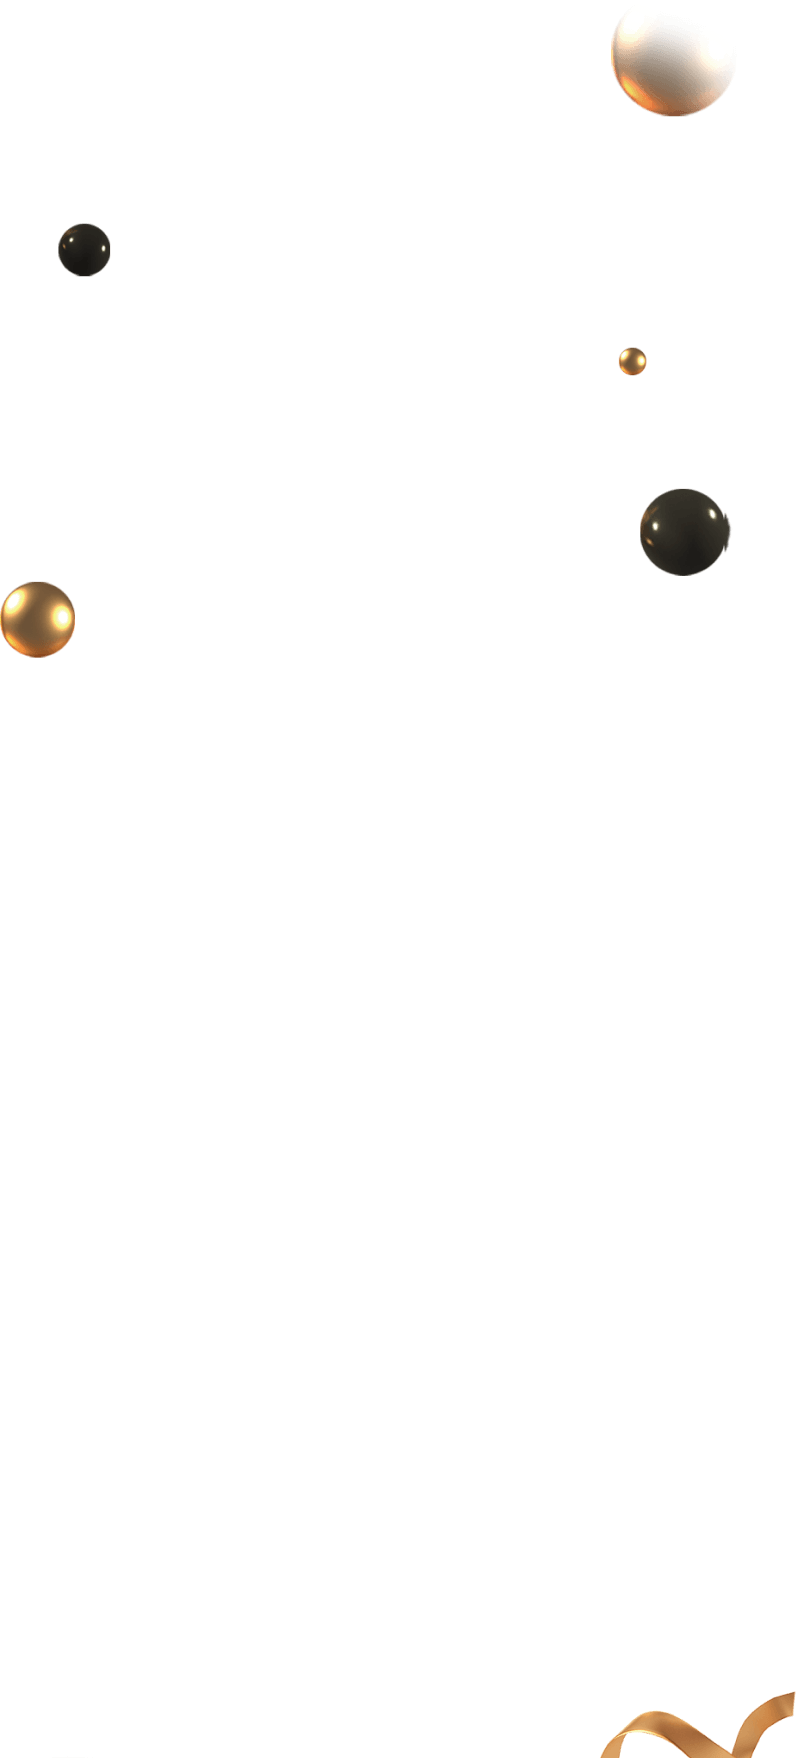
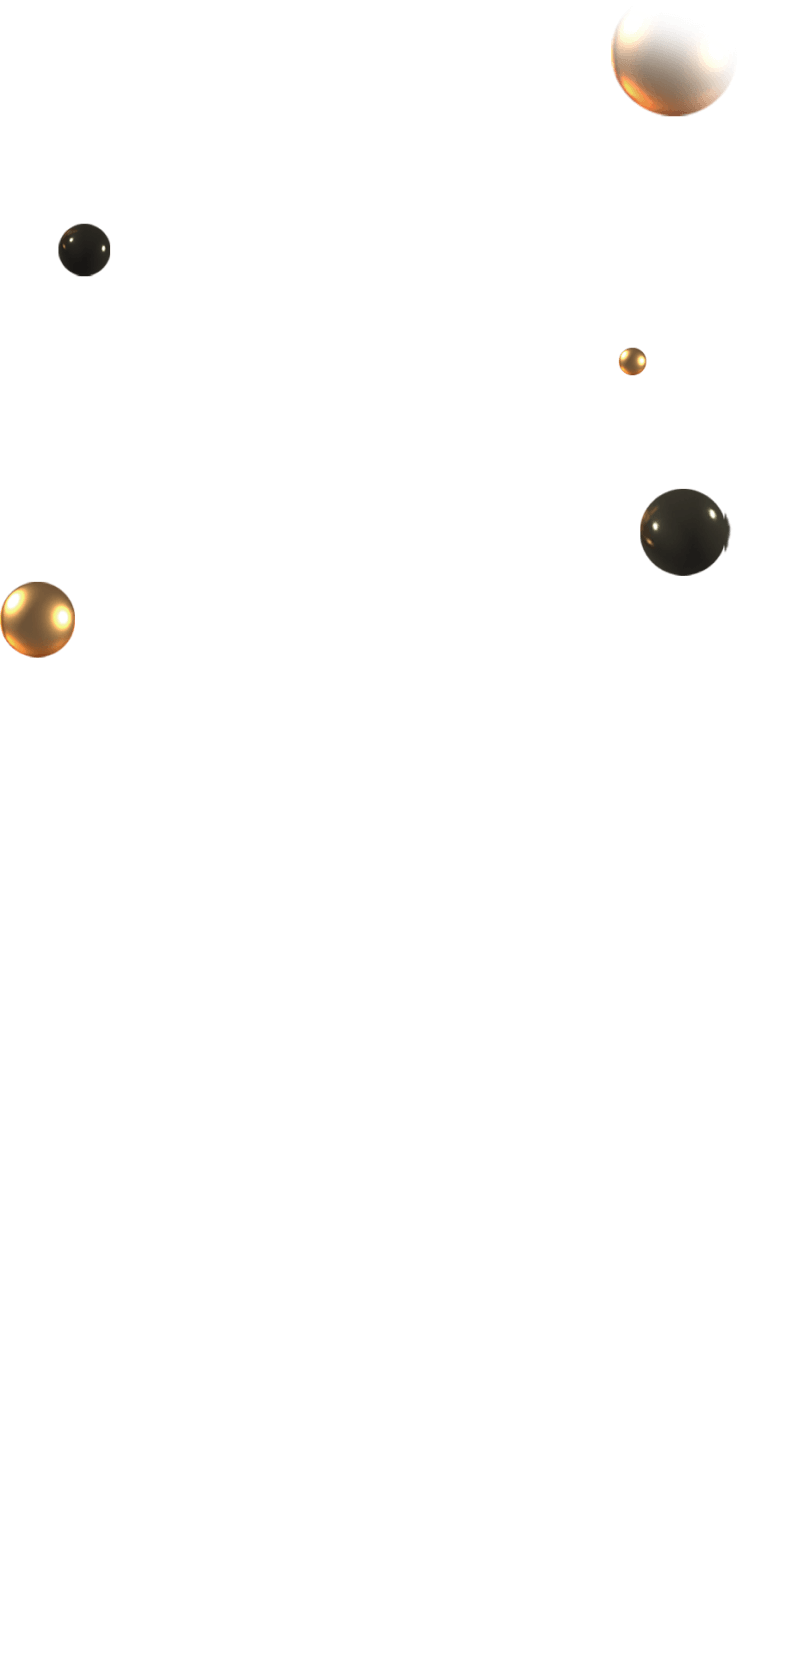
fix: [pak h5] Adjust video ambassador promo ui

diff --git a/pak-static-h5/src/components/hotpromo/video-ambassador/VideoAmbassador.vue b/pak-static-h5/src/components/hotpromo/video-ambassador/VideoAmbassador.vue
@@ -128,6 +128,7 @@
     </div>
   </div>
   <div class="ranking-section">
+    <img class="ranking-top-img" src="./img/ranking-top.png" />
     <div class="ranking-container">
       <div class="ranking-header">
         <div class="rank-index">RANKING</div>
@@ -139,10 +140,16 @@
           <div
             class="rank-index"
             :style="`background: ${
-              n <= 3 ? 'url(' + require(`./img/medal-${n}.png`) + '); color: #9E6213; font-weight: 900;' : 'none'
+              n <= 3
+                ? 'url(' +
+                  require(`./img/rank-${n}.png`) +
+                  ') no-repeat center center; color: #9E6213; font-weight: 900; min-height: 24px'
+                : 'none'
             }`"
           >
-            {{ n }}
+            <template v-if="n > 3">
+              {{ n }}
+            </template>
           </div>
           <div class="rank-name">NAME</div>
           <div class="rank-amt">
@@ -151,10 +158,10 @@
           </div>
         </div>
       </div>
+      <img class="ranking-container-decoration left" src="./img/ranking-left.png" />
+      <img class="ranking-container-decoration right" src="./img/ranking-right.png" />
+      <img class="ranking-container-decoration bottom" src="./img/ranking-bottom.png" />
     </div>
-    <img class="ranking-top-img" src="./img/ranking-top.png" />
-    <img class="ranking-left-img" src="./img/ranking-left.png" />
-    <img class="ranking-right-img" src="./img/ranking-right.png" />
   </div>
 </template>
 <script setup>
@@ -382,52 +389,25 @@ onMounted(() => {
   background-image: url(./img/ranking-bg.png);
   background-repeat: no-repeat;
   background-size: cover;
-  min-width: 100% !important;
-  background-position: center;
-  aspect-ratio: 800 / 1750;
-  position: relative;
+  background-position: top center;
+  padding-top: 15%;
 }
 .ranking-top-img {
-  position: absolute;
-  top: calc(60% - 310px);
-  left: 50%;
-  transform: translateX(-50%);
-  width: 70% !important;
+  top: 10%;
+  margin: auto;
+  max-width: 70%;
 }
-@media (min-width: 375px) {
-  .ranking-top-img {
-    top: calc(60% - 300px);
-  }
-}
-@media (min-width: 435px) {
-  .ranking-top-img {
-    top: calc(60% - 265px);
-  }
-}
-.ranking-left-img {
-  position: absolute;
-  bottom: calc(100px);
-  transform: translateY(-50%);
-  left: 10px;
-  width: 50px !important;
-}
-.ranking-right-img {
-  position: absolute;
-  right: 10px;
-  bottom: calc(10% + 150px);
-  transform: translateY(-50%);
-  width: 20px !important;
-}
+
 .ranking-container {
+  position: relative;
   background: #1e371f;
   border: 2px solid #337e3a;
   border-radius: 10px;
   padding-top: 20px;
-  margin: 50px 30px;
+  margin: -6% 30px 88px;
   font-weight: 700;
-  position: absolute;
-  bottom: 0;
   width: calc(100% - 60px);
+
   .ranking-header {
     display: grid;
     grid-template-columns: auto 1fr 1fr;
@@ -485,6 +465,27 @@ onMounted(() => {
     }
     .ranking-item:nth-child(odd) {
       background-color: #0000001a;
+    }
+  }
+  .ranking-container-decoration {
+    position: absolute;
+    margin-bottom: unset !important;
+    &.left {
+      max-width: 50px;
+      top: 50%;
+      transform: translate(-50%, -50%);
+    }
+    &.right {
+      max-width: 20px;
+      top: 30%;
+      right: 0;
+      transform: translate(100%, -50%);
+    }
+    &.bottom {
+      max-width: 88px;
+      bottom: 0;
+      right: 0;
+      transform: translate(0, 100%);
     }
   }
 }
